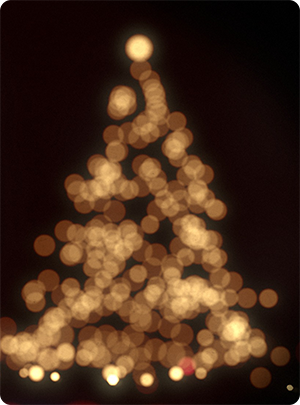
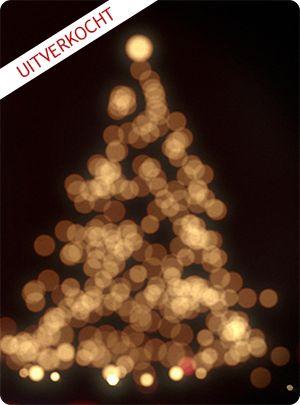
aanpassingen audities 2014

Changed region(s): [[0.0, 0.0, 0.51, 0.2667]]

diff --git a/public_html/templates/chantage/template.html b/public_html/templates/chantage/template.html
@@ -8,10 +8,10 @@
         <meta http-equiv="Content-Type" content="text/html; charset=UTF-8">
             
         <meta property="og:type"                 content="website"> 
-        <meta property="og:url"                  content="http://www.projectkoorchantage.be"> 
+        <meta property="og:url"                  content="http://www.projectkoorchantage.be/modules/audities/index.php"> 
         <meta property="og:image" content="http://www.projectkoorchantage.be/images/chantage-fb.png">
-        <meta property="og:title"                content="CHANTage brengt een kerstconcert">
-        <meta property="og:description"          content="Dit concert gaat door in de kerk van Woumen. Het unieke interieur van deze kerk biedt een mix van moderne en authentieke elementen. Dat is meteen ook het concept voor dit eerste concert. We willen ons profileren als een koor dat veel verschillende genres aankan en brengen u met dit concert een mix van klassieke werken (Mendelssohn, Pachelbel), musicalnummers (Martin Guerre), pop (Sting) tot klassieke kerstnummers (verschillende medleys).">
+        <meta property="og:title"                content="CHANTage zoekt zangers/zangeressen">
+        <meta property="og:description"          content="Kan je goed zingen en heb je zin in een uitdaging? Dan is dit iets voor jou!">
 
         <script type="text/javascript">
 
@@ -50,11 +50,42 @@
                 link.href = '/templates/chantage/css/mobile.css';
                 link.media = 'all';
                 head.appendChild(link);
+                
+                //We geven de sponsors 
             }
+            
+            
+            function hideSponsors()
+                {
+                    if(checkMobile()===false)
+                        {
+                            var filename = window.location.pathname.split( '/' ).pop();
+                            var file = filename.split('.');
+
+                            switch(file[0])
+                            {
+                                case 'index':
+                                    document.getElementById('sponsors').style.display='none';
+                                case 'sponsors':
+                                    document.getElementById('sponsors').style.display='none';
+                            }
+                        }
+                }
         </script>
         
     </head>
-    <body>
+    <body onload="hideSponsors()">
+        
+<div id="fb-root"></div>
+<div id="fb-root"></div>
+<script>(function(d, s, id) {
+  var js, fjs = d.getElementsByTagName(s)[0];
+  if (d.getElementById(id)) return;
+  js = d.createElement(s); js.id = id;
+  js.src = "//connect.facebook.net/nl_NL/all.js#xfbml=1&appId=219035668268270";
+  fjs.parentNode.insertBefore(js, fjs);
+}(document, 'script', 'facebook-jssdk'));</script>
+        
         <header>
             <section id="header-content">
                 <section id="header-left">

diff --git a/public_html/templates/onderhoud/binnenkort.css b/public_html/templates/onderhoud/binnenkort.css
@@ -1,0 +1,67 @@
+/* 
+    Document   : binnenkort
+    Created on : 4-nov-2013, 22:01:59
+    Author     : matthiasba
+    Description:
+        Purpose of the stylesheet follows.
+*/
+@font-face {
+    font-family: 'bebas_neueregular';
+    src: url('/templates/chantage/css/fonts/bebas/BebasNeue-webfont.eot');
+    src: url('/templates/chantage/css/fonts/bebas/BebasNeue-webfont.eot?#iefix') format('embedded-opentype'),
+         url('/templates/chantage/css/fonts/bebas/BebasNeue-webfont.woff') format('woff'),
+         url('/templates/chantage/css/fonts/bebas/BebasNeue-webfont.ttf') format('truetype'),
+         url('/templates/chantage/css/fonts/bebas/BebasNeue-webfont.svg#bebas_neueregular') format('svg');
+    font-weight: normal;
+    font-style: normal;
+
+}
+
+body {
+    margin: 0px;
+    padding: 0px;
+    height: 100%;
+    background-color: #333333;
+    color: #FFFFFF;
+    font-family: arial;
+    text-align: center;
+}
+
+
+
+#beeld {
+    display: block;
+    height: 35em;
+    background-color: #000000;
+    background-image: url('/templates/onderhoud/koorblur.jpg');
+    background-size: 100% auto;
+    
+}
+
+#line {
+    background-color:#f1ae1e;
+    height: 2.5em;
+}
+
+#message {
+    
+}
+
+#logo {
+    position: relative;
+    width: 300px;
+    margin-left: auto;
+    margin-right: auto;
+    top: -8em;
+}
+
+h1 {
+    display: block;
+    font-family: 'bebas_neueregular';
+    font-weight: normal;
+    color: #FFFFFF;
+    margin-top: 3em;
+    margin-left: auto;
+    margin-right: auto;
+    text-align:  center;
+}

diff --git a/public_html/templates/chantage/css/mobile.css b/public_html/templates/chantage/css/mobile.css
@@ -13,7 +13,7 @@ body {
 }
 
 #central-image {
-    height: 30em;
+    height: 20em;
     background-size: auto 100%;
     /*background-image: none;*/
 }
@@ -30,9 +30,9 @@ body {
 #central-image-content select {
     float: right;
     display: inline-block;
-    font-size: 5em;
+    font-size: 3em;
     margin-left: 2em;
-    margin-top: 4.5em;
+    margin-top: 5em;
     
     background-color: #524333;
     font-family: 'denseregular';
@@ -57,7 +57,7 @@ header #header-content,nav,#content-box,#sponsors-content,#footer-center,#centra
 }
 
 #logo img {
-    width: 25em;
+    width: 15em;
     
 }
 
@@ -93,8 +93,18 @@ h1 {
 .block {
     width: 90%;
     margin-left: 2em;
+    font-size: 1.5em;
+}
+
+.block h1 {
+    font-size: 3em;
 }
 
 header {
     display:none;
+}
+
+b {
+    font-weight: 400;
+    text-shadow: 0.5px 0.5px; 
 }

diff --git a/public_html/templates/onderhoud/template.html b/public_html/templates/onderhoud/template.html
@@ -1,0 +1,25 @@
+<!--
+To change this template, choose Tools | Templates
+and open the template in the editor.
+-->
+<!DOCTYPE html>
+<html>
+    <head>
+        <link rel="stylesheet" href="/templates/onderhoud/binnenkort.css">
+        <title></title>
+        <meta http-equiv="Content-Type" content="text/html; charset=UTF-8">
+    </head>
+    <body>
+        <div id='beeld'></div>
+        <div id='line'>
+            <div id='logo'><img src='/templates/onderhoud/chantage-glow.png'>
+            </div>
+        </div>
+        <div id='message'>
+            <h1>Even geduld... we komen zo bij u terug!</h1>
+            onze website is momenteel offline voor onderhoud. Probeer straks nog eens!
+            
+        </div>
+        
+    </body>
+</html>

diff --git a/public_html/templates/chantage/css/basic.css b/public_html/templates/chantage/css/basic.css
@@ -232,6 +232,7 @@ header{
         margin-left: auto;
         margin-right: auto;
         
+        
     }
 
     .block {
@@ -346,6 +347,8 @@ a:hover{
 label {
     display: inline-block;
     width: 100px;
+    vertical-align: top;
+    font-weight: 600;
 }
 
 a img {
@@ -402,4 +405,24 @@ a img {
 .woordenboek {
     margin-left: 2em;
     font-size: 0.9em;
+}
+
+.errors {
+    background-color: #f1ae1e;
+    border-color: #FC3333;
+    border-width: 2px;
+    border-style: solid;
+    margin-bottom: 1em;
+}
+
+.nadruk, .nadruk-rood {
+    font-weight: 700;
+}
+
+#knoppen img {
+    cursor: pointer;
+}
+
+.nadruk-rood {
+    color: #FC3333;
 }

diff --git a/public_html/templates/mail/template.htm b/public_html/templates/mail/template.htm
@@ -6,7 +6,7 @@
 </head>
 
 <body>
-<center><h2><font face="Arial, Helvetica, sans-serif" color="#FF6600">Controlcenter2</font></h2></center>
+<center><img src='http://www.projectkoorchantage.be/templates/mail/chantage-klein.png'></img></center>
 <font face="Arial, Helvetica, sans-serif" color="#666666">
 <PageContent>
 </font>

diff --git a/public_html/modules/audities/index.php b/public_html/modules/audities/index.php
@@ -40,9 +40,12 @@ if(getAuditiepakketStatus())
     }
 }
 else
-{
-    showMessage("Audities", "Helaas! op dit moment zijn wij niet op zoek naar kandidaten. Wil je je toch spontaan aanbieden? Stuur dan een mail naar ".dataaccess_getParameter('AUDITIES_ADMIN_MAIL')->getValue());
-   
+{    
+    #showMessage("Audities", "Helaas! op dit moment zijn wij niet op zoek naar kandidaten. Wil je je toch spontaan aanbieden? Stuur dan een mail naar ".dataaccess_getParameter('AUDITIES_ADMIN_MAIL')->getValue());
+    $html = new htmlpage('frontend');
+    $html->LoadAddin('/modules/audities/geenaudities.tpa');
+    $html->setVariable(mailadres, dataaccess_getParameter('AUDITIES_ADMIN_MAIL')->getValue());
+    $html->printHTML();
 }
 
 ?>

diff --git a/public_html/modules/audities/auditielogic.php b/public_html/modules/audities/auditielogic.php
@@ -21,7 +21,7 @@ function addKandidaat(auditieKandidaat $kandidaat)
 		###Bevestigingsmail naar kandidaat
 		$bevestigingsmail = new Email();
 		$bevestigingsmail->setTo($kandidaat->getMailadres());
-		$bevestigingsmail->setSubject("Projectkoor.be audities");
+		$bevestigingsmail->setSubject("CHANTage audities");
 		$bevestigingsmail->setMessageAddin('/modules/audities/aanvraagmail.tpa');
 		$bevestigingsmail->setVariable('voornaam',$kandidaat->getVoornaam());
 		$bevestigingsmail->setVariable('key',$kandidaat->getKey());

diff --git a/public_html/modules/audities/download.php b/public_html/modules/audities/download.php
@@ -15,8 +15,8 @@ else
 	
 	if($kandidaat instanceOf auditieKandidaat)
 	{
-			$basepath = "/home/projectk/protectedfiles";
-			$fileparts = split("/",$_GET['f']);
+			$basepath = "/home/chantage/protectedfiles";
+			$fileparts = explode("/",$_GET['f']);
 			$filesize = filesize($basepath."/$_GET[f]");
 			$recommendedfilename = $fileparts[count($fileparts)-1];
 			

diff --git a/public_html/modules/audities/kandidaatvalidator.php b/public_html/modules/audities/kandidaatvalidator.php
@@ -198,7 +198,7 @@ class defKandidaatValidator
 	
 	public function validateGeboortedatum($datum)
 	{
-		$datumarray = split('/',$datum);
+		$datumarray = explode('/',$datum);
 		foreach($datumarray as $key=>$value)
 		{
 			if(empty($value))
